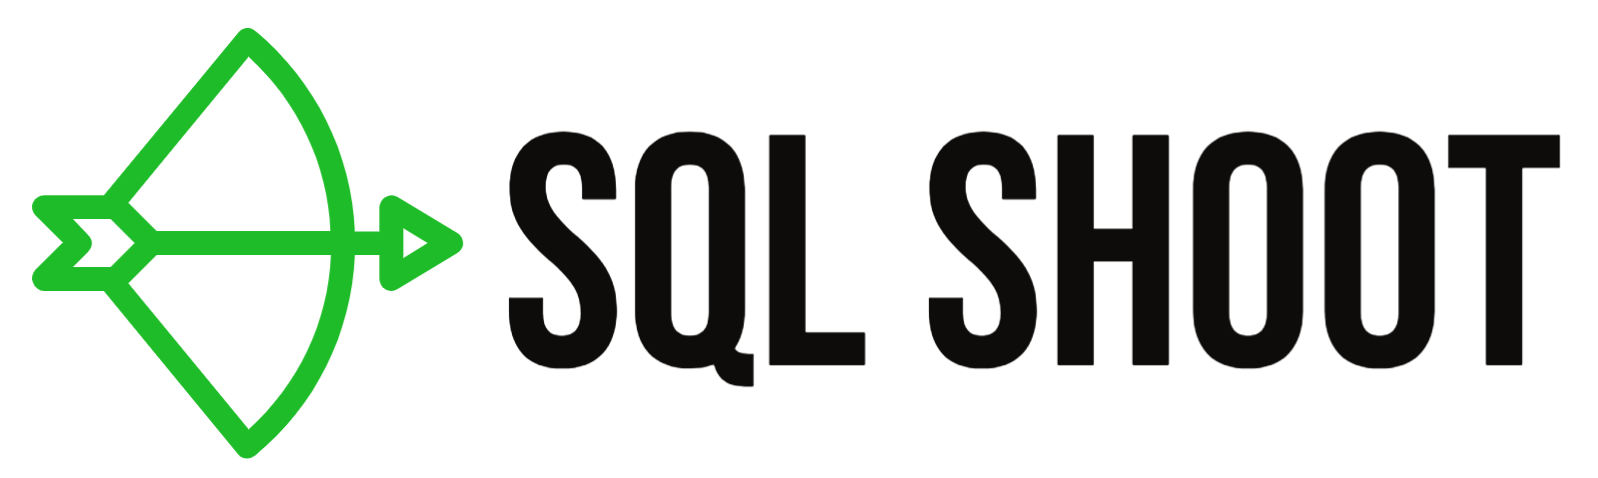
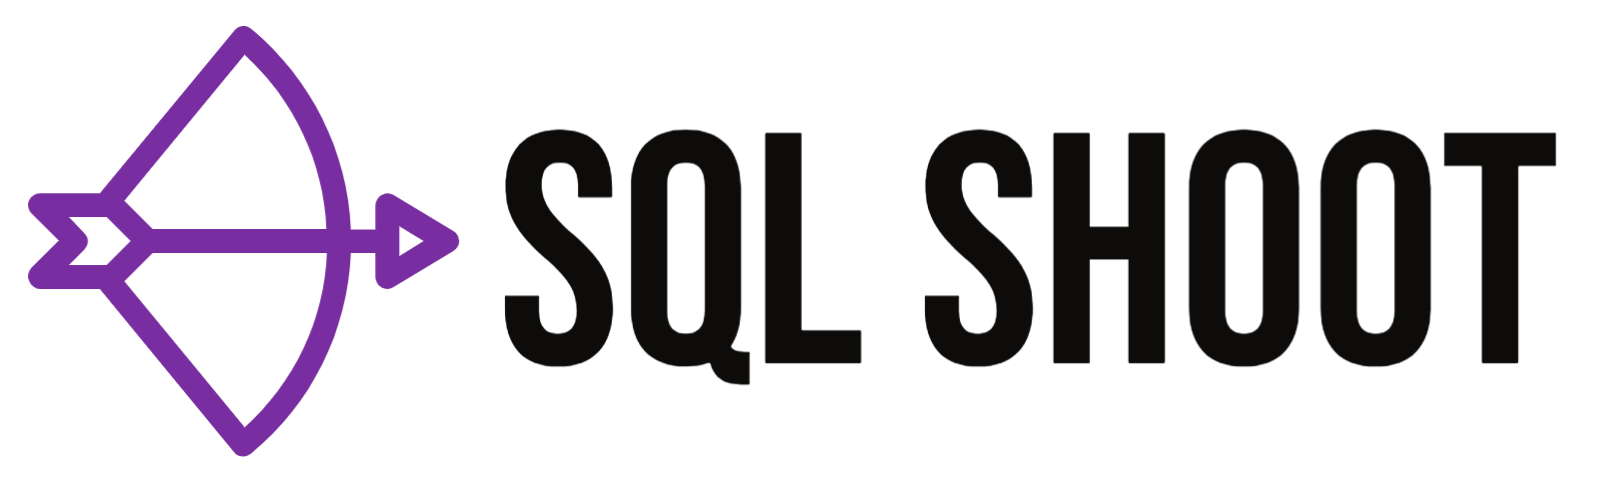
Changes

Changed region(s): [[0.0, 0.0586, 0.9812, 0.9665]]

diff --git a/sqlshoot-site/pages/index.js b/sqlshoot-site/pages/index.js
@@ -5,21 +5,31 @@ export default function Home() {
     <Layout>
     <section className="hero">
       <div className="hero-body">
-        <div className="container">
-          <h1 className="title">
-            SQL Shoot
-          </h1>
-          <h2 className="subtitle">
+        <div className="container text-align-center">
+          <figure className="image main-page-logo">
+                <img src="sqlshoot-square.png" />
+          </figure>
+          <h3 className="title is-3">
             Change control for the database
-          </h2>
-          <div className="buttons">
-          <a href="/documentation/introduction">
-            <button class="button is-primary">Get Started</button>
-          </a>
-          <a href="/documentation/introduction">
-            <button class="button is-secondary">Documentation</button>
-          </a>
+          </h3>
+          <br />
           </div>
+          <div className="container">
+              <div className="columns">
+              <div className="column" />
+              <div className="column">
+                <div className="buttons">
+                <a className="button is-large is-fullwidth is-primary" href="/documentation/introduction">
+                    Get Started
+                </a>
+                <a className="button is-large is-fullwidth" href="/documentation/introduction">
+                    Documentation
+                </a>
+                </div>
+              </div>
+              <div className="column" />
+          </div>
+        
         </div>
       </div>
     </section>
@@ -49,6 +59,7 @@ export default function Home() {
     </section>
     <hr />
     <section>
+    <h3 className="title is-3 text-align-center">Features</h3>
     <div className="box has-text-centered">
       <div className="columns">
         <div className="column">
@@ -62,7 +73,7 @@ export default function Home() {
           <strong>Deploy scripts in the order your need</strong>
           <div className="lnr lnr-small lnr-sort-alpha-asc"/>
           <br />
-          Orchestrate deployments to deal with dependencies between scripts
+          Orchestrate deployments, even when scripts have tricky dependencies
         </div>
         <div className="column">
           <strong>Command line interface</strong>
@@ -100,28 +111,61 @@ export default function Home() {
     </div>
     <hr />
     <section>
+    <h3 className="title is-3 text-align-center">Platforms</h3>
       <div className="tile is-ancestor">
         <div className="tile is-parent">
-          <div className="tile is-child box">
-              Windows
+        <div className="tile is-child box has-text-centered">
+              <h4 className="title is-4">Windows</h4>
+
+              <figure className="image is-128x128 client-img">
+                <img src="windows.png" />
+              </figure>
+
+              <a href="/documentation/windows">
+                <button class="button is-link">Go to Windows</button>
+              </a>
           </div>
         </div>
 
         <div className="tile is-parent">
-          <div className="tile is-child box">
-              Linux
+        <div className="tile is-child box has-text-centered">
+              <h4 className="title is-4">Linux</h4>
+              
+              <figure className="image is-128x128 client-img">
+                <img src="linux.png" />
+              </figure>
+
+              <a href="/documentation/linux">
+                <button class="button is-link">Go to Linux</button>
+              </a>
           </div>
         </div>
 
         <div className="tile is-parent">
-          <div className="tile is-child box">
-            NuGet
+        <div className="tile is-child box has-text-centered">
+              <h4 className="title is-4">Docker</h4>
+
+              <figure className="image is-128x128 client-img">
+                <img src="docker.png" />
+              </figure>
+
+              <a href="/documentation/docker">
+                <button class="button is-link">Go to Docker</button>
+              </a>
           </div>
         </div>
 
         <div className="tile is-parent">
-          <div className="tile is-child box">
-            GitHub
+        <div className="tile is-child box has-text-centered">
+              <h4 className="title is-4">GitHub</h4>
+
+              <figure className="image is-128x128 client-img">
+                <img src="github.png" />
+              </figure>
+
+              <a href="/documentation/github">
+                <button class="button is-link">Source code in GitHub</button>
+              </a>
           </div>
         </div>
       </div>

diff --git a/sqlshoot-site/styles/style.css b/sqlshoot-site/styles/style.css
@@ -8,3 +8,32 @@
   font-size: 40px;
   padding: 10px;
 }
+
+.client-img {
+  margin: auto;
+  margin-bottom: 30px;
+}
+
+.text-align-center {
+  text-align: center;
+}
+
+.main-page-logo {
+  width: 400px;
+  height: 400px;
+  margin: auto;
+}
+
+/* Use !important hack to override Bulma colours */
+
+.is-primary {
+  background-color: #782EA0 !important;
+}
+
+.is-active {
+  background-color: #782EA0 !important;
+}
+
+.is-link {
+  background-color: #782EA0 !important;
+}
